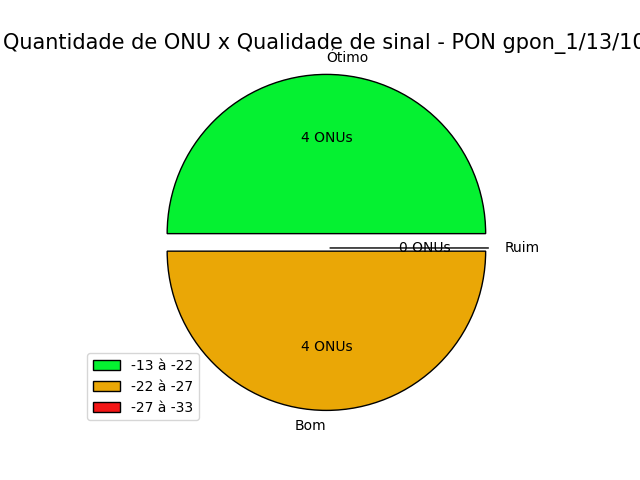
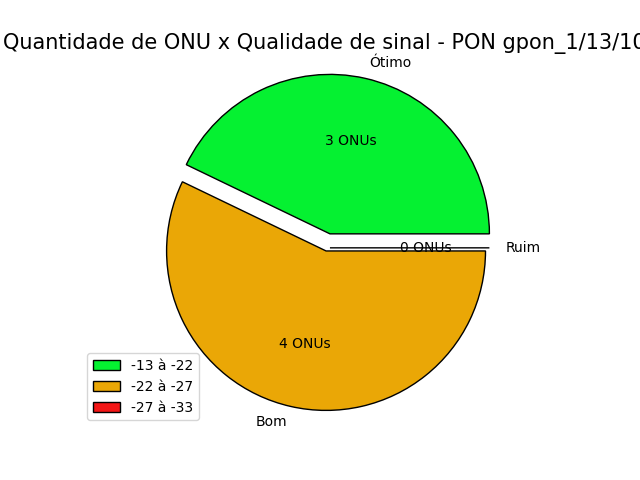
Atualizado dados da OLT

diff --git a/dados.js b/dados.js
@@ -1,4 +1,4 @@
-const relatorioPons={}
+const relatorioPons={'gpon_1/13/1': {'online': 6, 'provisionada': 8, 'offline': 2, 'onusSinalBom': 4, 'onusSinalOtimo': 1, 'onusSinalRuim': 1, 'melhorSinal': -11.399, 'piorSinal': -28.126, 'mediaSinal': -24.373, 'onuComSinalRuim': [{'idOnu': 'gpon-onu_1/13/1:3', 'sinal': -28.126, 'description': 'Neuza_Ferreira', 'serial': 'FHTT100139A8'}]}, 'gpon_1/13/2': {'online': 31, 'provisionada': 34, 'offline': 3, 'onusSinalBom': 11, 'onusSinalOtimo': 17, 'onusSinalRuim': 3, 'melhorSinal': -16.699, 'piorSinal': -28.681, 'mediaSinal': -20.883, 'onuComSinalRuim': [{'idOnu': 'gpon-onu_1/13/2:15', 'sinal': -28.681, 'description': 'Cesar_junior_Loiola_', 'serial': 'FHTT092420C0'}, {'idOnu': 'gpon-onu_1/13/2:20', 'sinal': -27.695, 'description': 'Patricia_Junia', 'serial': 'INVP10165317'}, {'idOnu': 'gpon-onu_1/13/2:28', 'sinal': -28.478, 'description': 'CEZAR_SARAIVA', 'serial': 'INVP10036838'}]}, 'gpon_1/13/3': {'online': 10, 'provisionada': 24, 'offline': 14, 'onusSinalBom': 9, 'onusSinalOtimo': 0, 'onusSinalRuim': 1, 'melhorSinal': -24.66, 'piorSinal': -27.034, 'mediaSinal': -26.187, 'onuComSinalRuim': [{'idOnu': 'gpon-onu_1/13/3:26', 'sinal': -27.034, 'description': 'Elaine_rosa', 'serial': 'TLCM000A6D94'}]}, 'gpon_1/13/4': {'online': 1, 'provisionada': 1, 'offline': 0, 'onusSinalBom': 0, 'onusSinalOtimo': 1, 'onusSinalRuim': 0, 'melhorSinal': -18.459, 'piorSinal': -18.459, 'mediaSinal': -18.459, 'onuComSinalRuim': []}, 'gpon_1/13/5': {'online': 10, 'provisionada': 14, 'offline': 4, 'onusSinalBom': 8, 'onusSinalOtimo': 1, 'onusSinalRuim': 1, 'melhorSinal': -20.706, 'piorSinal': -27.261, 'mediaSinal': -25.289, 'onuComSinalRuim': [{'idOnu': 'gpon-onu_1/13/5:4', 'sinal': -27.261, 'description': 'Patricia_cassia', 'serial': 'FHTT0578BF00'}]}, 'gpon_1/13/6': {'online': 1, 'provisionada': 4, 'offline': 3, 'onusSinalBom': 0, 'onusSinalOtimo': 1, 'onusSinalRuim': 0, 'melhorSinal': -21.675, 'piorSinal': -21.675, 'mediaSinal': -21.675, 'onuComSinalRuim': []}, 'gpon_1/13/7': {'online': 12, 'provisionada': 15, 'offline': 3, 'onusSinalBom': 9, 'onusSinalOtimo': 0, 'onusSinalRuim': 3, 'melhorSinal': -22.806, 'piorSinal': -29.005, 'mediaSinal': -25.162, 'onuComSinalRuim': [{'idOnu': 'gpon-onu_1/13/7:3', 'sinal': -29.005, 'description': 'JOSIANE_DAS_DORES_MOREIRA', 'serial': 'TLCM00095D05'}, {'idOnu': 'gpon-onu_1/13/7:7', 'sinal': -27.449, 'description': 'Mary_Neusa_Maria_da_silva', 'serial': 'ZTEG96010AB2'}, {'idOnu': 'gpon-onu_1/13/7:13', 'sinal': -27.259, 'description': 'ADRIANO_SOUZA_CUNHA', 'serial': 'TLCM00025121'}]}, 'gpon_1/13/8': {}, 'gpon_1/13/9': {'online': 17, 'provisionada': 24, 'offline': 7, 'onusSinalBom': 5, 'onusSinalOtimo': 12, 'onusSinalRuim': 0, 'melhorSinal': -18.651, 'piorSinal': -23.895, 'mediaSinal': -20.926, 'onuComSinalRuim': []}, 'gpon_1/13/10': {'online': 7, 'provisionada': 8, 'offline': 1, 'onusSinalBom': 4, 'onusSinalOtimo': 3, 'onusSinalRuim': 0, 'melhorSinal': -11.059, 'piorSinal': -25.562, 'mediaSinal': -22.628, 'onuComSinalRuim': []}, 'gpon_1/13/11': {'online': 31, 'provisionada': 37, 'offline': 6, 'onusSinalBom': 16, 'onusSinalOtimo': 10, 'onusSinalRuim': 5, 'melhorSinal': -18.03, 'piorSinal': -29.517, 'mediaSinal': -23.727, 'onuComSinalRuim': [{'idOnu': 'gpon-onu_1/13/11:1', 'sinal': -29.214, 'description': 'Adilson_Vilela', 'serial': 'TLCM0006E7A4'}, {'idOnu': 'gpon-onu_1/13/11:11', 'sinal': -27.596, 'description': 'Ivone_da_Silva', 'serial': 'MSTC393BFEF6'}, {'idOnu': 'gpon-onu_1/13/11:24', 'sinal': -29.517, 'description': 'Maria_Machado_da_silva', 'serial': 'MSTC03A41BAE'}, {'idOnu': 'gpon-onu_1/13/11:35', 'sinal': -28.19, 'description': 'Marcia_Felicio', 'serial': 'HWTC4B369D9E'}, {'idOnu': 'gpon-onu_1/13/11:37', 'sinal': -27.214, 'description': 'Walister_Mota_soares', 'serial': 'TDTC35226778'}]}, 'gpon_1/13/12': {'online': 2, 'provisionada': 4, 'offline': 2, 'onusSinalBom': 2, 'onusSinalOtimo': 0, 'onusSinalRuim': 0, 'melhorSinal': -24.534, 'piorSinal': -24.737, 'mediaSinal': -25.034, 'onuComSinalRuim': []}, 'gpon_1/13/13': {'online': 8, 'provisionada': 11, 'offline': 3, 'onusSinalBom': 7, 'onusSinalOtimo': 1, 'onusSinalRuim': 0, 'melhorSinal': -20.204, 'piorSinal': -26.165, 'mediaSinal': -23.476, 'onuComSinalRuim': []}, 'gpon_1/13/14': {}, 'gpon_1/13/15': {'online': 8, 'provisionada': 11, 'offline': 3, 'onusSinalBom': 1, 'onusSinalOtimo': 6, 'onusSinalRuim': 1, 'melhorSinal': -11.576, 'piorSinal': -27.751, 'mediaSinal': -13.766, 'onuComSinalRuim': [{'idOnu': 'gpon-onu_1/13/15:5', 'sinal': -27.751, 'description': 'Samuel_Souza_-_Borboletas_112', 'serial': 'MSTC393D607B'}]}, 'gpon_1/13/16': {'online': 9, 'provisionada': 10, 'offline': 1, 'onusSinalBom': 1, 'onusSinalOtimo': 8, 'onusSinalRuim': 0, 'melhorSinal': -10.788, 'piorSinal': -22.396, 'mediaSinal': -15.575, 'onuComSinalRuim': []}}
 
 const dadosDoRelatorio={'data': '25/10/2022', 'hora': '14:09', 'oltName': 'OLT Huawei'}
 
